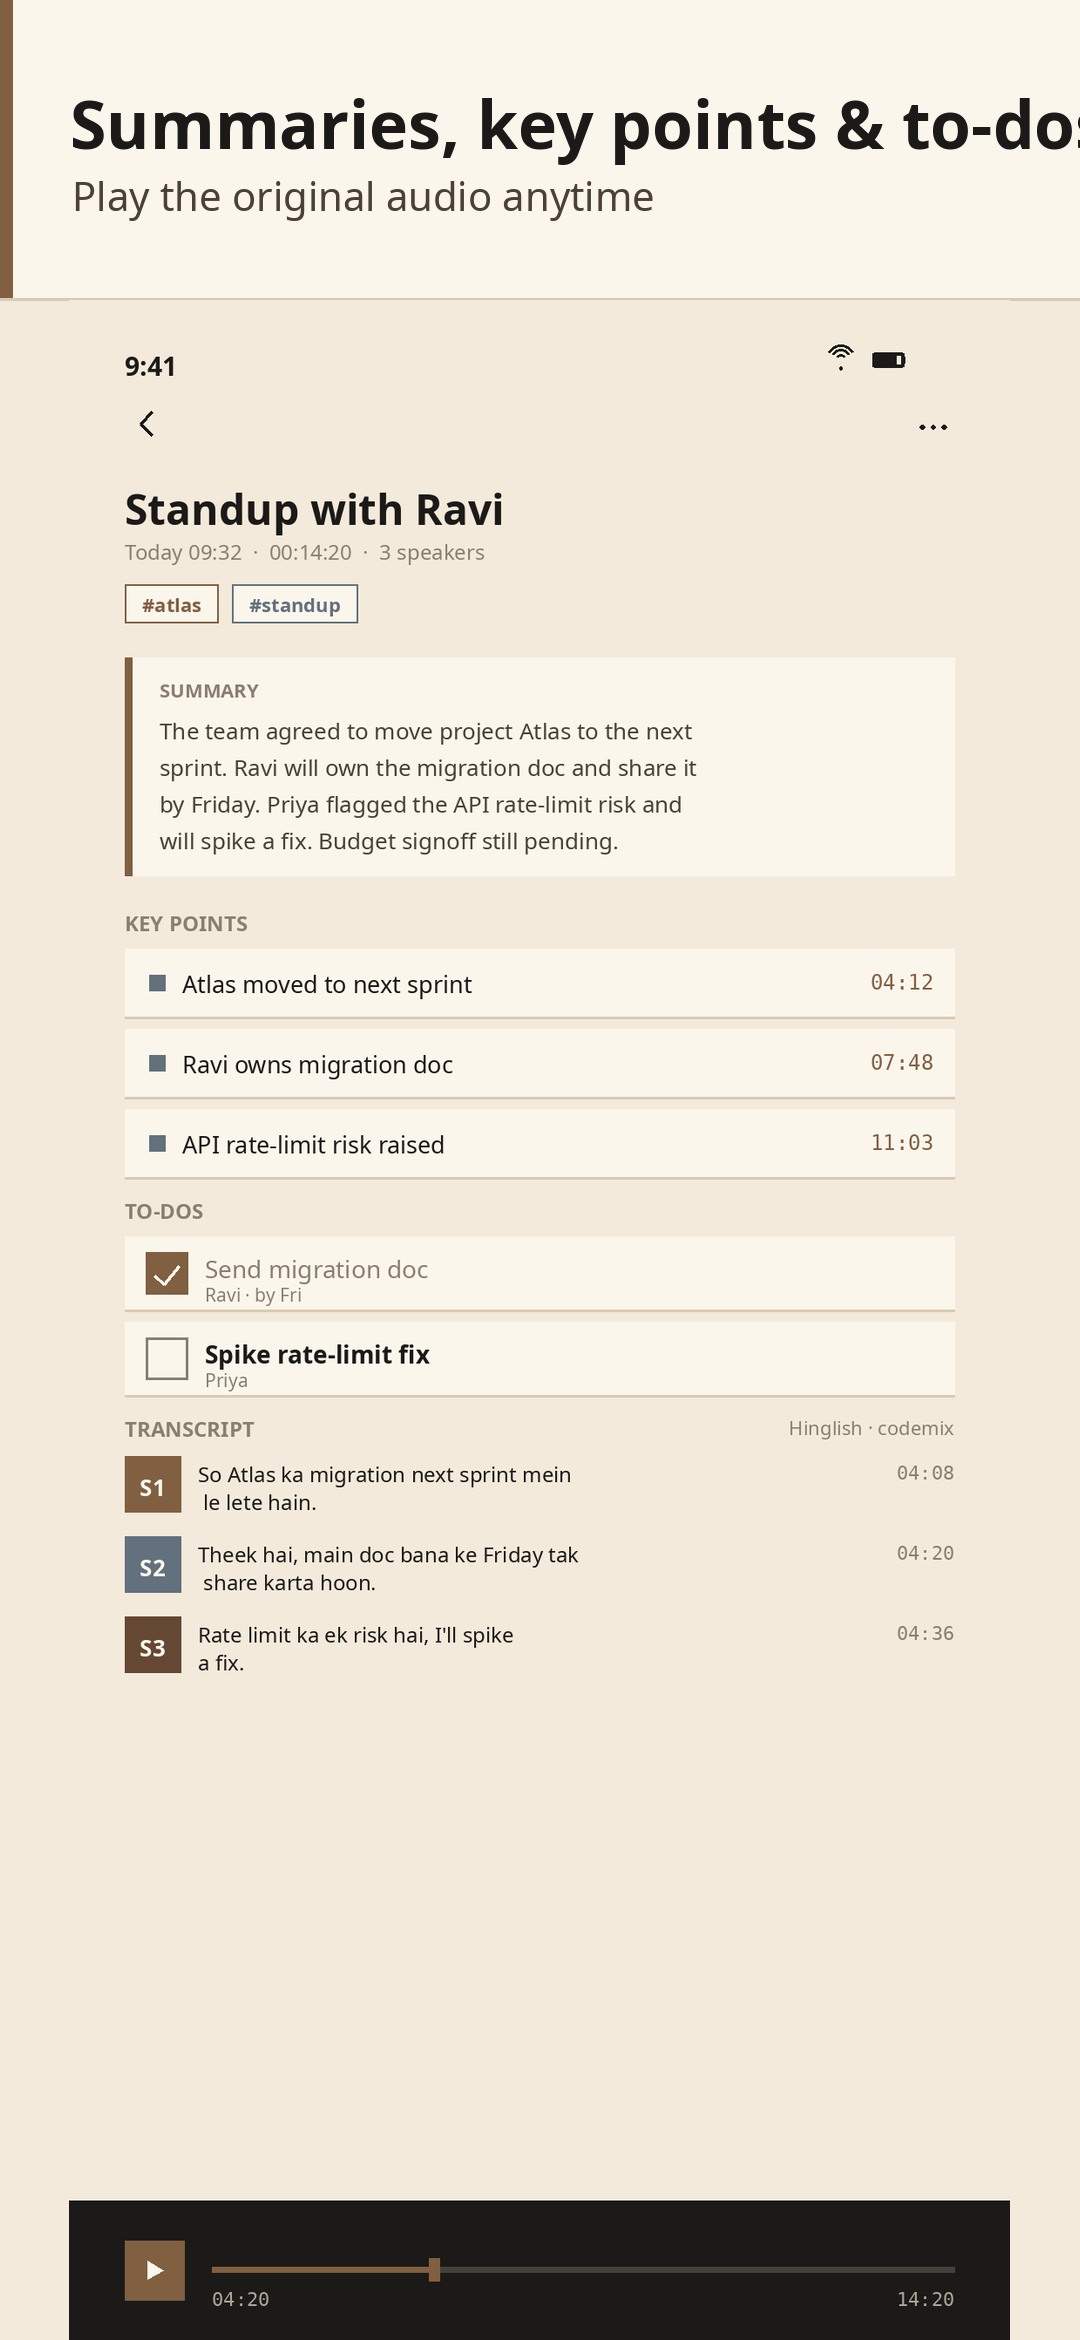
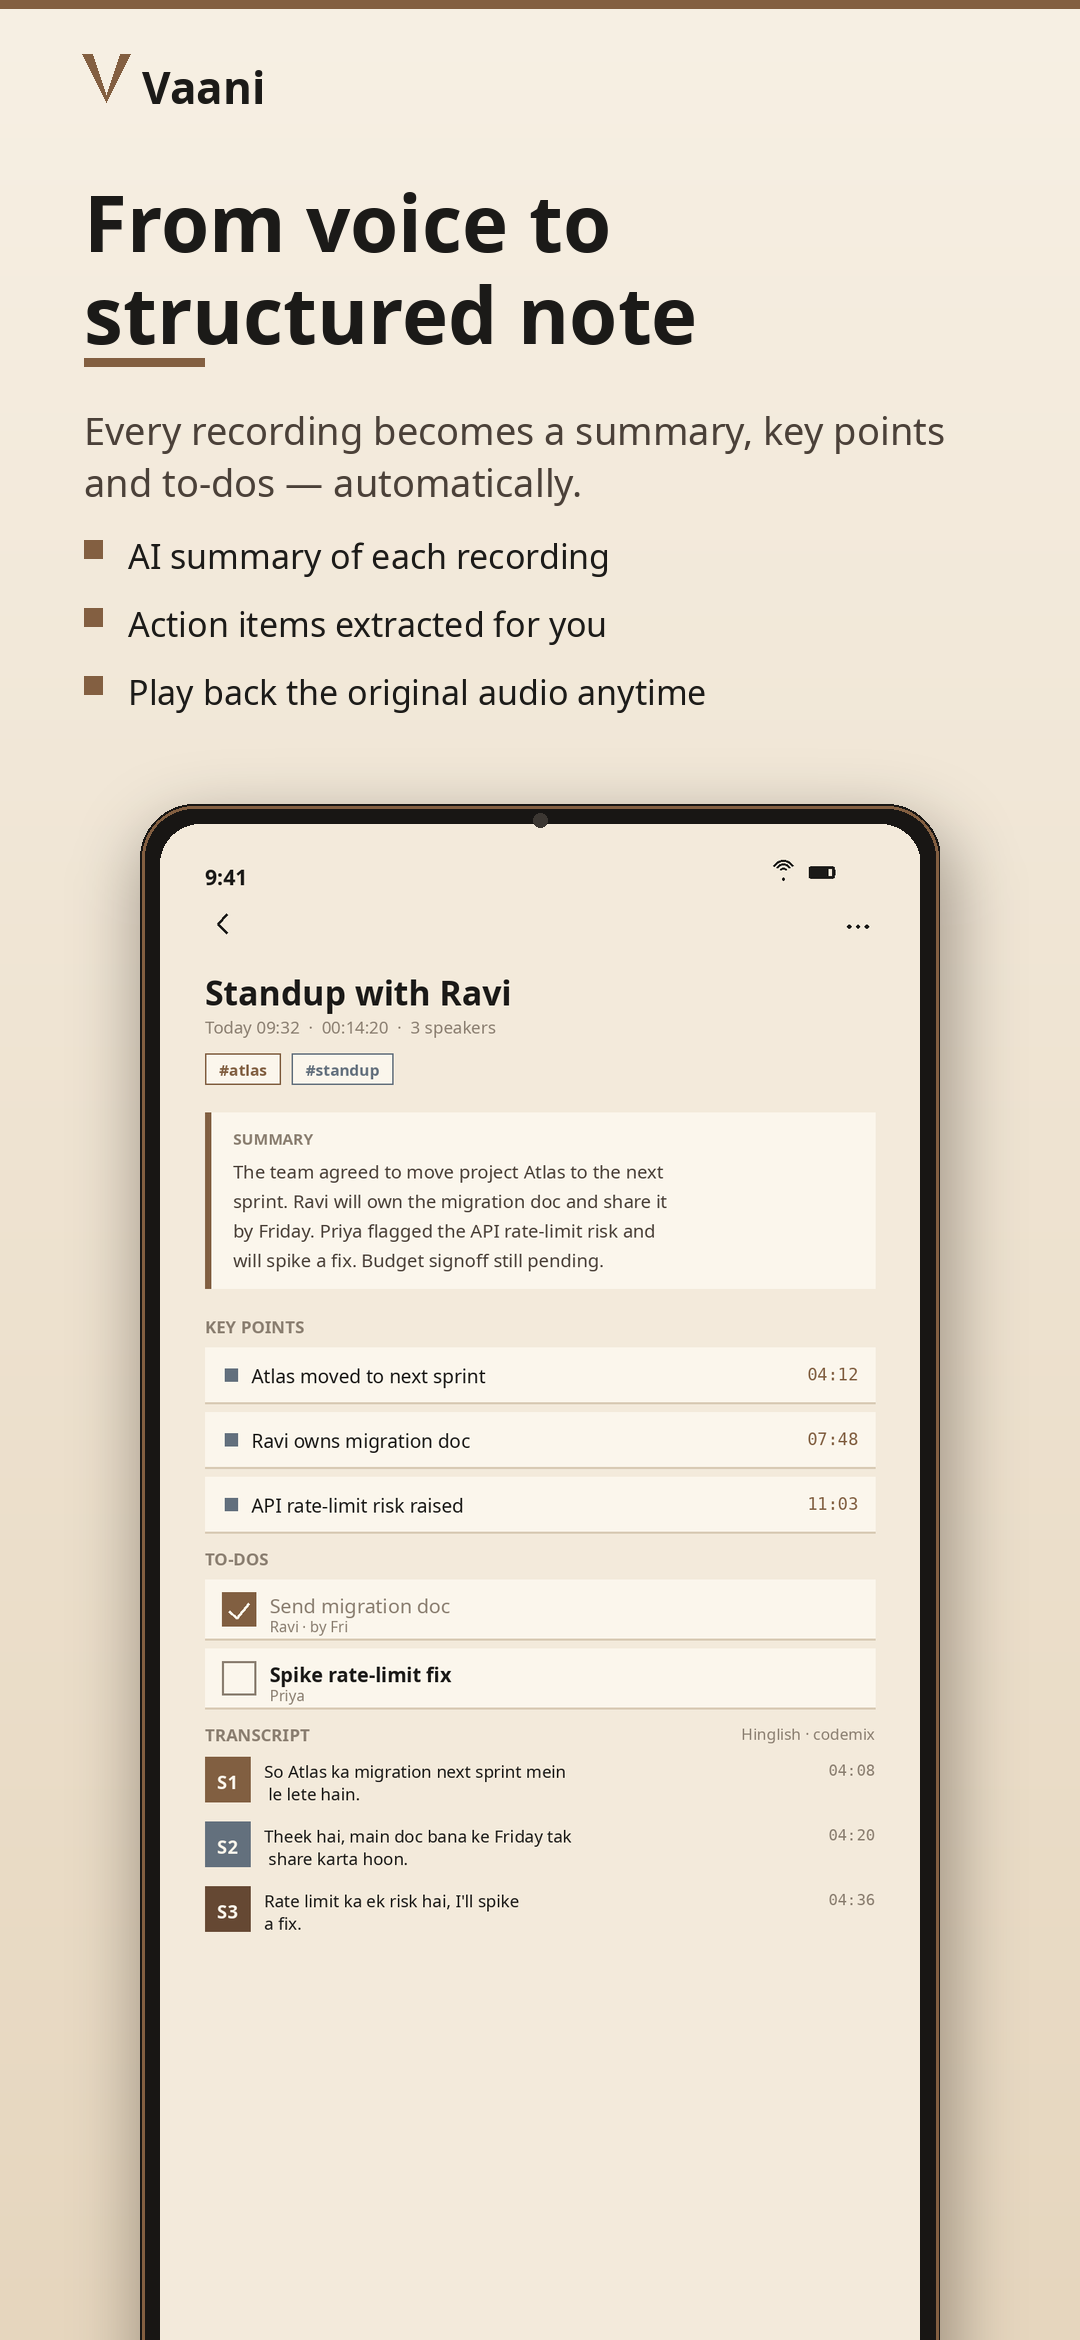
assets: premium phone screenshots — device frame + headline/description/feature bullets
Redesigned store phone screenshots from plain caption-band mockups to premium marketing frames:
warm branded gradient bg, Vaani wordmark, large headline, wrapped description, 3 feature bullets
each, and the real app screen embedded in a rounded dark device frame with a soft drop shadow.

Changed region(s): [[0.0, 0.0, 1.0, 1.0], [0.7639, 0.1248, 0.8556, 0.1872], [0.7333, 0.5927, 0.7944, 0.6551]]

diff --git a/tools/gen_store_assets.py b/tools/gen_store_assets.py
@@ -168,39 +168,146 @@ def make_tv_banner():
     print("tv-banner.png")
 
 # =========================================================================
-# 5. PHONE SCREENSHOTS  — frame each mockup with a caption band
+# 5. PHONE SCREENSHOTS — premium marketing frames:
+#    branded gradient bg + headline + description + feature bullets
+#    + the real app screen embedded in a device frame (rounded, shadowed).
 # =========================================================================
+from PIL import ImageFilter
+
+# (source mockup, headline, one-line description, [feature bullets])
 CAPTIONS = [
-    ("02-library.png",     "All your notes, on your phone", "Transcribed & searchable \u2014 no cloud"),
-    ("03-note-detail.png", "Summaries, key points & to-dos", "Play the original audio anytime"),
-    ("04-chat.png",        "Chat with your own notes",       "On-device RAG with real citations"),
-    ("07-device.png",      "Pair your Vaani wearable",        "Auto-syncs recordings the moment you connect"),
-    ("05-search.png",      "Find anything you said",          "Fuzzy search across every note"),
+    ("02-library.png",
+     "Every note,\nbeautifully organized",
+     "Speak your mind — Vaani transcribes and files it, grouped by day.",
+     ["Automatic transcription, fully on-device",
+      "Search across everything you've said",
+      "No account. No cloud. No listening in."]),
+    ("03-note-detail.png",
+     "From voice to\nstructured note",
+     "Every recording becomes a summary, key points and to-dos — automatically.",
+     ["AI summary of each recording",
+      "Action items extracted for you",
+      "Play back the original audio anytime"]),
+    ("04-chat.png",
+     "Chat with\nyour own notes",
+     "Ask a question and get answers drawn from everything you've captured.",
+     ["Retrieval-augmented chat over your notes",
+      "Every answer cites its source note",
+      "Runs privately, right on your phone"]),
+    ("07-device.png",
+     "Pair your\nVaani wearable",
+     "Hands-free capture on the go, synced the moment you connect.",
+     ["Say \u201cHi ESP\u201d to record anywhere",
+      "Auto-syncs new recordings on connect",
+      "Encrypted BLE \u2014 your voice stays yours"]),
+    ("05-search.png",
+     "Find anything\nyou ever said",
+     "Fuzzy search that forgives typos and understands what you meant.",
+     ["Instant keyword + semantic search",
+      "Matches even misspelled words",
+      "Jump straight to the moment"]),
 ]
+
+def _vgradient(w, h, top, bot):
+    base = Image.new("RGB", (w, h), top)
+    d = ImageDraw.Draw(base)
+    for y in range(h):
+        t = y / (h - 1)
+        c = tuple(int(top[i] + (bot[i] - top[i]) * t) for i in range(3))
+        d.line([(0, y), (w, y)], fill=c)
+    return base
+
+def _device_frame(screen_img, screen_w, bezel=20, radius=54, screen_radius=40):
+    """Return an RGBA image of the mockup embedded in a dark phone frame."""
+    sw = screen_w
+    sh = int(sw * screen_img.height / screen_img.width)
+    screen = screen_img.resize((sw, sh), Image.LANCZOS).convert("RGB")
+    # round the screen corners
+    smask = Image.new("L", (sw, sh), 0)
+    ImageDraw.Draw(smask).rounded_rectangle([0, 0, sw, sh], radius=screen_radius, fill=255)
+    fw, fh = sw + 2 * bezel, sh + 2 * bezel
+    frame = Image.new("RGBA", (fw, fh), (0, 0, 0, 0))
+    fd = ImageDraw.Draw(frame)
+    # body
+    fd.rounded_rectangle([0, 0, fw, fh], radius=radius, fill=(24, 22, 20, 255))
+    # thin coffee rim highlight
+    fd.rounded_rectangle([2, 2, fw - 2, fh - 2], radius=radius - 2, outline=(131, 95, 65, 255), width=3)
+    frame.paste(screen, (bezel, bezel), smask)
+    # camera dot
+    fd.ellipse([fw // 2 - 7, bezel // 2 - 1, fw // 2 + 7, bezel // 2 + 13], fill=(60, 55, 50, 255))
+    return frame
+
+def _wrap(d, text, font, max_w):
+    words, lines, cur = text.split(), [], ""
+    for w in words:
+        trial = (cur + " " + w).strip()
+        if d.textlength(trial, font=font) <= max_w:
+            cur = trial
+        else:
+            if cur:
+                lines.append(cur)
+            cur = w
+    if cur:
+        lines.append(cur)
+    return lines
+
 def make_phone_shots():
     W, Hh = 1080, 2340
-    band = 300   # caption band height at top
-    for idx, (fn, title, sub) in enumerate(CAPTIONS, 1):
+    MARGIN = 84
+    for idx, (fn, headline, desc, bullets) in enumerate(CAPTIONS, 1):
         src = os.path.join(SCREENS, fn)
         if not os.path.exists(src):
             print("  (skip, missing:", fn, ")"); continue
-        mock = Image.open(src).convert("RGB")
-        canvas = Image.new("RGB", (W, Hh), CREAM)
+        # branded warm gradient background
+        canvas = _vgradient(W, Hh, (247, 240, 228), (230, 214, 190)).convert("RGBA")
         d = ImageDraw.Draw(canvas)
-        # caption band (surface, coffee left accent bar, hairline divider)
-        rounded_none_rect(d, [0, 0, W, band], fill=SURFACE)
-        d.rectangle([0, 0, 12, band], fill=COFFEE)               # left accent
-        d.rectangle([0, band-2, W, band], fill=HAIR)             # hairline
-        d.text((70, 78), title, font=font(F_BOLD, 66), fill=INK)
-        d.text((72, 168), sub, font=font(F_SANS, 40), fill=SECOND)
-        # place the mockup scaled to fill below the band
-        avail_h = Hh - band
-        scale = min(W / mock.width, avail_h / mock.height)
-        nw, nh = int(mock.width*scale), int(mock.height*scale)
-        m = mock.resize((nw, nh), Image.LANCZOS)
-        canvas.paste(m, ((W-nw)//2, band + (avail_h-nh)//2))
-        canvas.save(os.path.join(OUT, "phone", f"{idx}.png"))
-    print("phone/1..%d.png" % len(CAPTIONS))
+        # top hairline brand bar + wordmark
+        d.rectangle([0, 0, W, 8], fill=COFFEE)
+        draw_v_mark(d, MARGIN + 22, 78, 24, COFFEE, 10)
+        d.text((MARGIN + 58, 56), "Vaani", font=font(F_BOLD, 44), fill=INK)
+
+        # headline (multi-line, may contain explicit \n)
+        y = 168
+        hf = font(F_BOLD, 78)
+        for ln in headline.split("\n"):
+            d.text((MARGIN, y), ln, font=hf, fill=INK)
+            y += 92
+        # coffee accent underline
+        y += 6
+        d.rectangle([MARGIN, y, MARGIN + 120, y + 8], fill=COFFEE)
+        y += 46
+        # description (wrapped)
+        df = font(F_SANS, 38)
+        for ln in _wrap(d, desc, df, W - 2 * MARGIN):
+            d.text((MARGIN, y), ln, font=df, fill=SECOND)
+            y += 52
+        # feature bullets — sharp coffee square + text
+        y += 24
+        bf = font(F_SANS, 34)
+        for b in bullets:
+            d.rectangle([MARGIN, y + 8, MARGIN + 18, y + 26], fill=COFFEE)
+            for j, ln in enumerate(_wrap(d, b, bf, W - 2 * MARGIN - 44)):
+                d.text((MARGIN + 44, y + j * 46), ln, font=bf, fill=INK)
+            y += 46 * max(1, len(_wrap(d, b, bf, W - 2 * MARGIN - 44))) + 22
+
+        # device frame with the real app screen, floating with a soft shadow
+        mock = Image.open(src).convert("RGB")
+        screen_w = 760
+        frame = _device_frame(mock, screen_w)
+        fw, fh = frame.size
+        fx = (W - fw) // 2
+        # anchor the frame just below the text block, bleeding off the bottom edge
+        fy = max(y + 40, Hh - fh + 150)
+        # soft shadow
+        shadow = Image.new("RGBA", (W, Hh), (0, 0, 0, 0))
+        sd = ImageDraw.Draw(shadow)
+        sd.rounded_rectangle([fx + 6, fy + 26, fx + fw + 6, fy + fh + 26], radius=54, fill=(60, 40, 25, 110))
+        shadow = shadow.filter(ImageFilter.GaussianBlur(34))
+        canvas = Image.alpha_composite(canvas, shadow)
+        canvas.alpha_composite(frame, (fx, fy))
+
+        canvas.convert("RGB").save(os.path.join(OUT, "phone", f"{idx}.png"))
+    print("phone/1..%d.png (premium)" % len(CAPTIONS))
 
 if __name__ == "__main__":
     make_icon()
